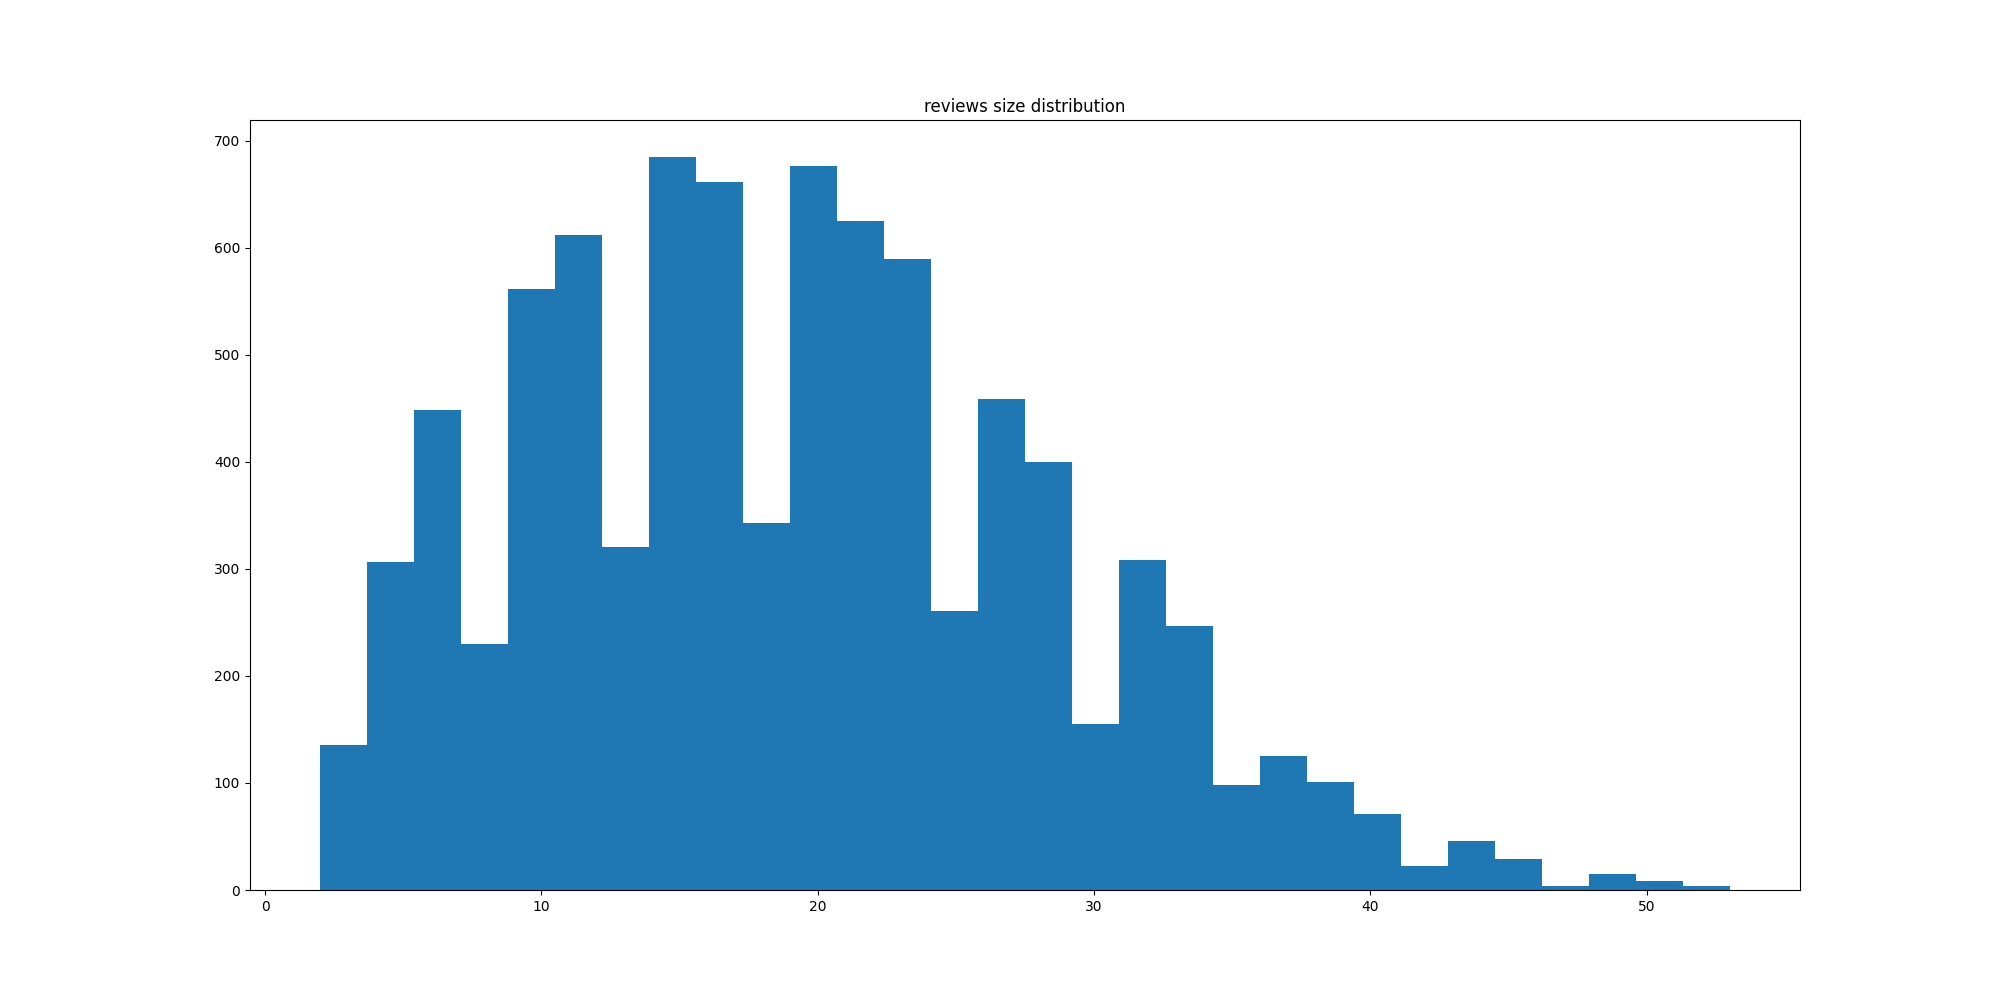
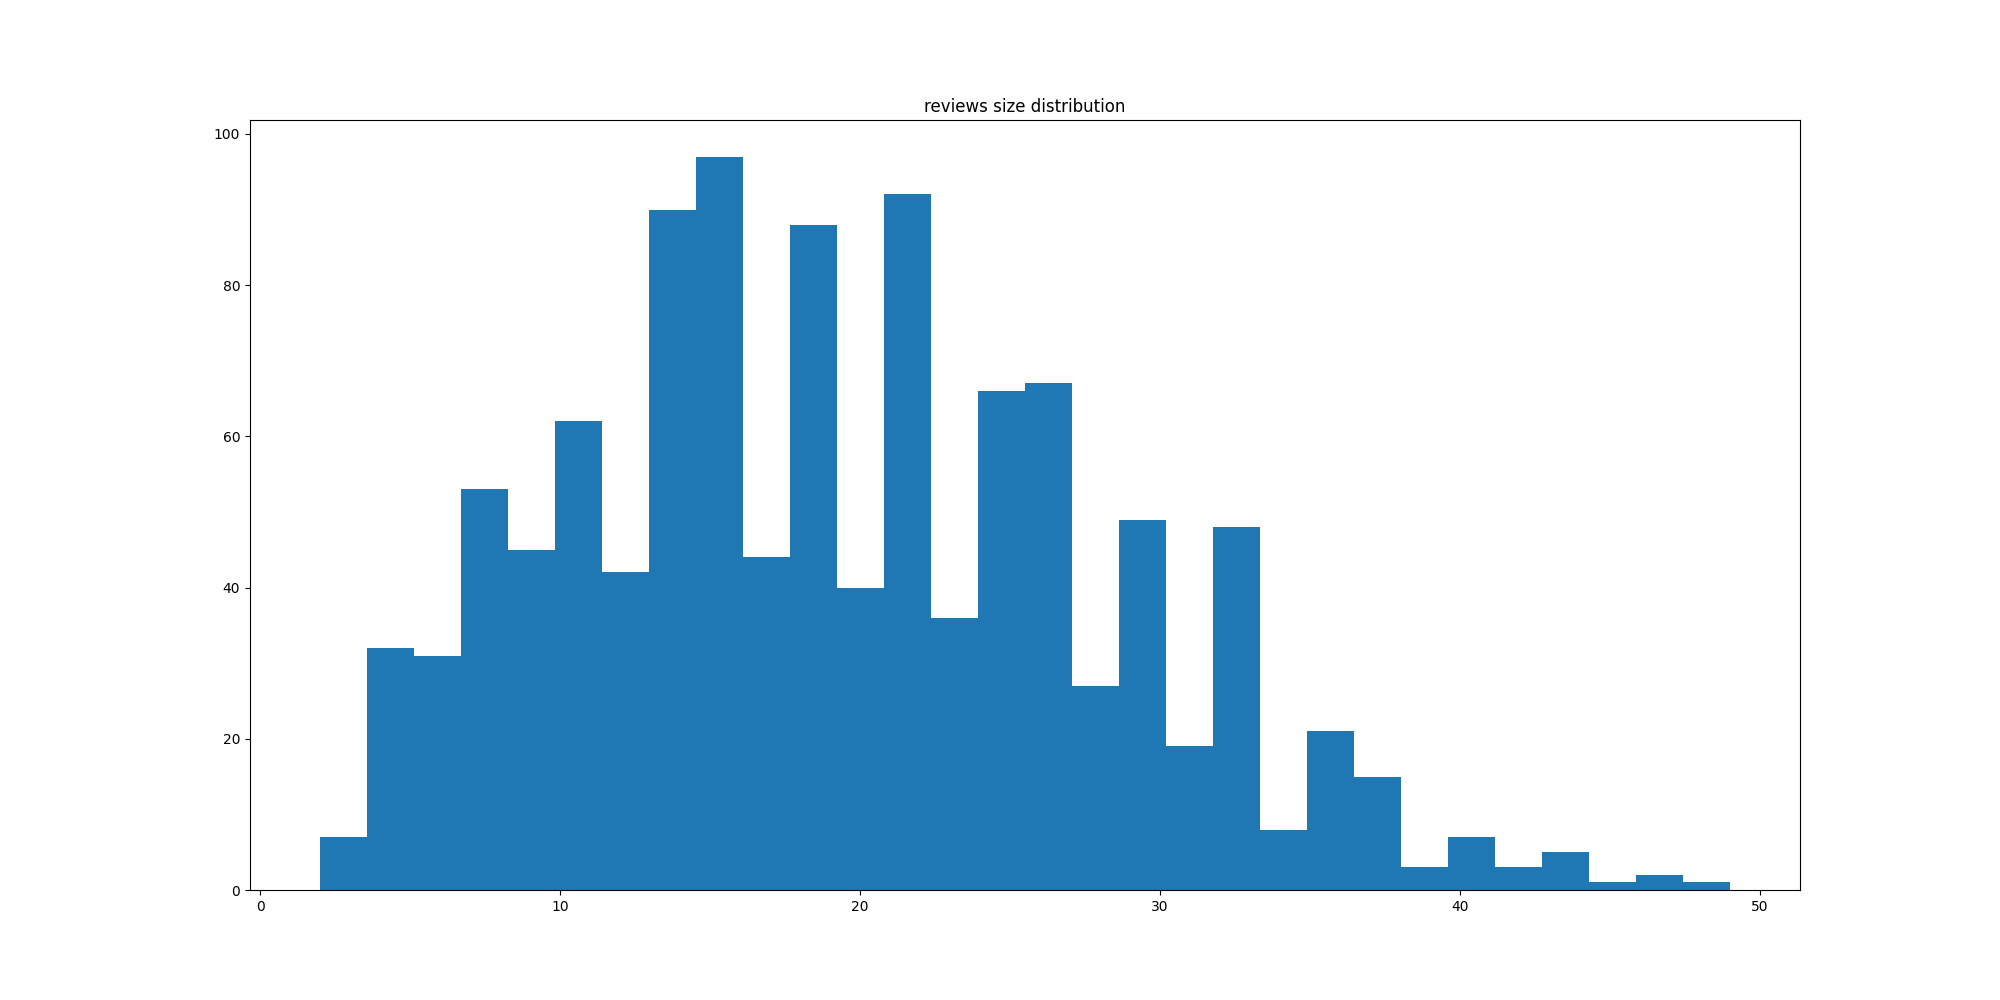
cuda erro

diff --git a/src/statistics/sst_analysis.py b/src/statistics/sst_analysis.py
@@ -8,7 +8,12 @@ if __name__ == '__main__':
     train_set, val_set, test_set = sst_dataset.load_sst_dataset()
     for (split, dataset) in zip(["train", "val", "test"],[train_set, val_set, test_set]):
         sst_dataset.plot_most_frequent_words(dataset, split=split)
-        sst_dataset.plot_len_reviews(train_set, split=split)
+        sst_dataset.plot_len_reviews(dataset, split=split)
 
+    train_set1 = sst_dataset.preprocess_dataset(train_set, label=1)
+    val_set1 = sst_dataset.preprocess_dataset(val_set, label=1)
+    test_set1 = sst_dataset.preprocess_dataset(test_set, label=1)
 
-
+    for (split, dataset) in zip(["train_label1", "val_label1", "test_label1"],[train_set1, val_set1, test_set1]):
+        sst_dataset.plot_most_frequent_words(dataset, split=split)
+        sst_dataset.plot_len_reviews(dataset, split=split)

diff --git a/src/attribute_models/train_attribute_model.py b/src/attribute_models/train_attribute_model.py
@@ -204,10 +204,12 @@ if __name__ == '__main__':
     # load dataset
     sst_dataset = SSTDataset(tokenizer=tokenizer)
     train_set, val_set, test_set = sst_dataset.load_sst_dataset()
-    train_set = sst_dataset.preprocess_dataset(train_set)
-    val_set = sst_dataset.preprocess_dataset(val_set)
+    train_set = sst_dataset.preprocess_dataset(train_set, label=args.label)
+    val_set = sst_dataset.preprocess_dataset(val_set, label=args.label)
     train_set, train_dataloader = sst_dataset.prepare_data_for_torch(train_set, batch_size=args.bs)
     val_set, val_dataloader = sst_dataset.prepare_data_for_torch(val_set, batch_size=args.bs)
+    print("len train set", len(train_set)) # 3610 samples
+    print("len val set", len(val_set))  # 444 samples
 
     # Build model
     if args.model_path is not None:

diff --git a/src/attribute_models/sst_sentiment.py b/src/attribute_models/sst_sentiment.py
@@ -129,10 +129,10 @@ class SSTDataset():
     def preprocess_dataset(self, dataset, label=1):
         dataset = self.tokenize(dataset)
         dataset = self.get_binary_label(dataset)
-        dataset = self.get_input_target_sequences(dataset)
-        dataset = self.remove_neutral_labels(dataset)
+        dataset = self.get_input_target_sequences(dataset) #8544
+        dataset = self.remove_neutral_labels(dataset) #6920 samples.
         if label is not None:
-            dataset = self.filter_per_label(dataset, label=label)
+            dataset = self.filter_per_label(dataset, label=label) # 3610 samples
         return dataset
 
     def check_number_unk_tokens(self, dataset):
